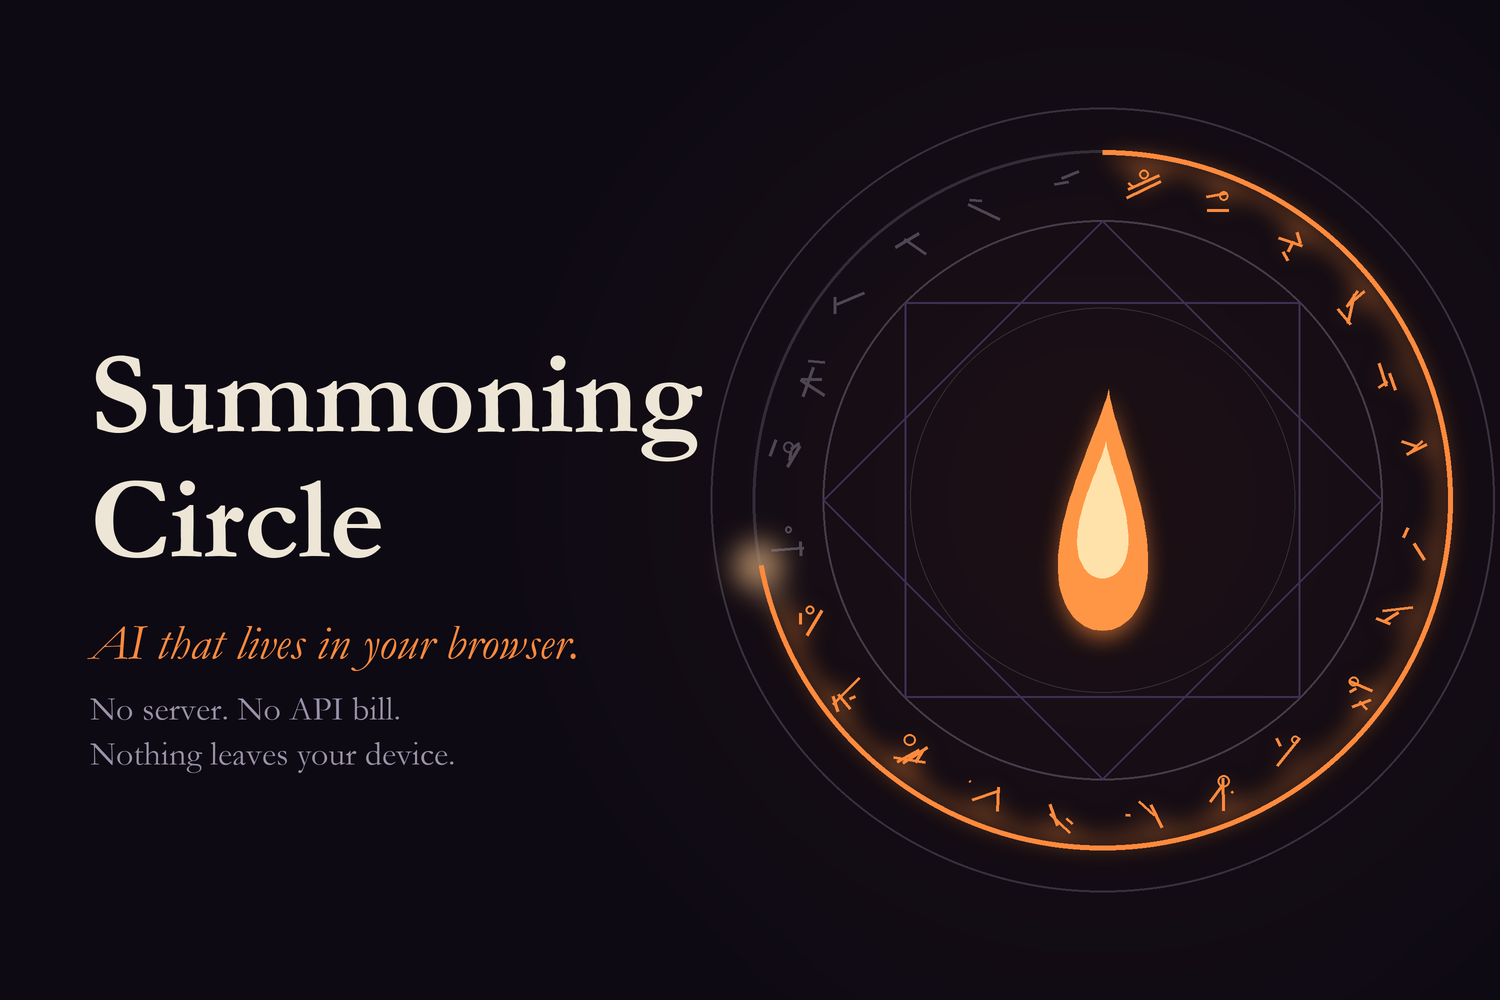
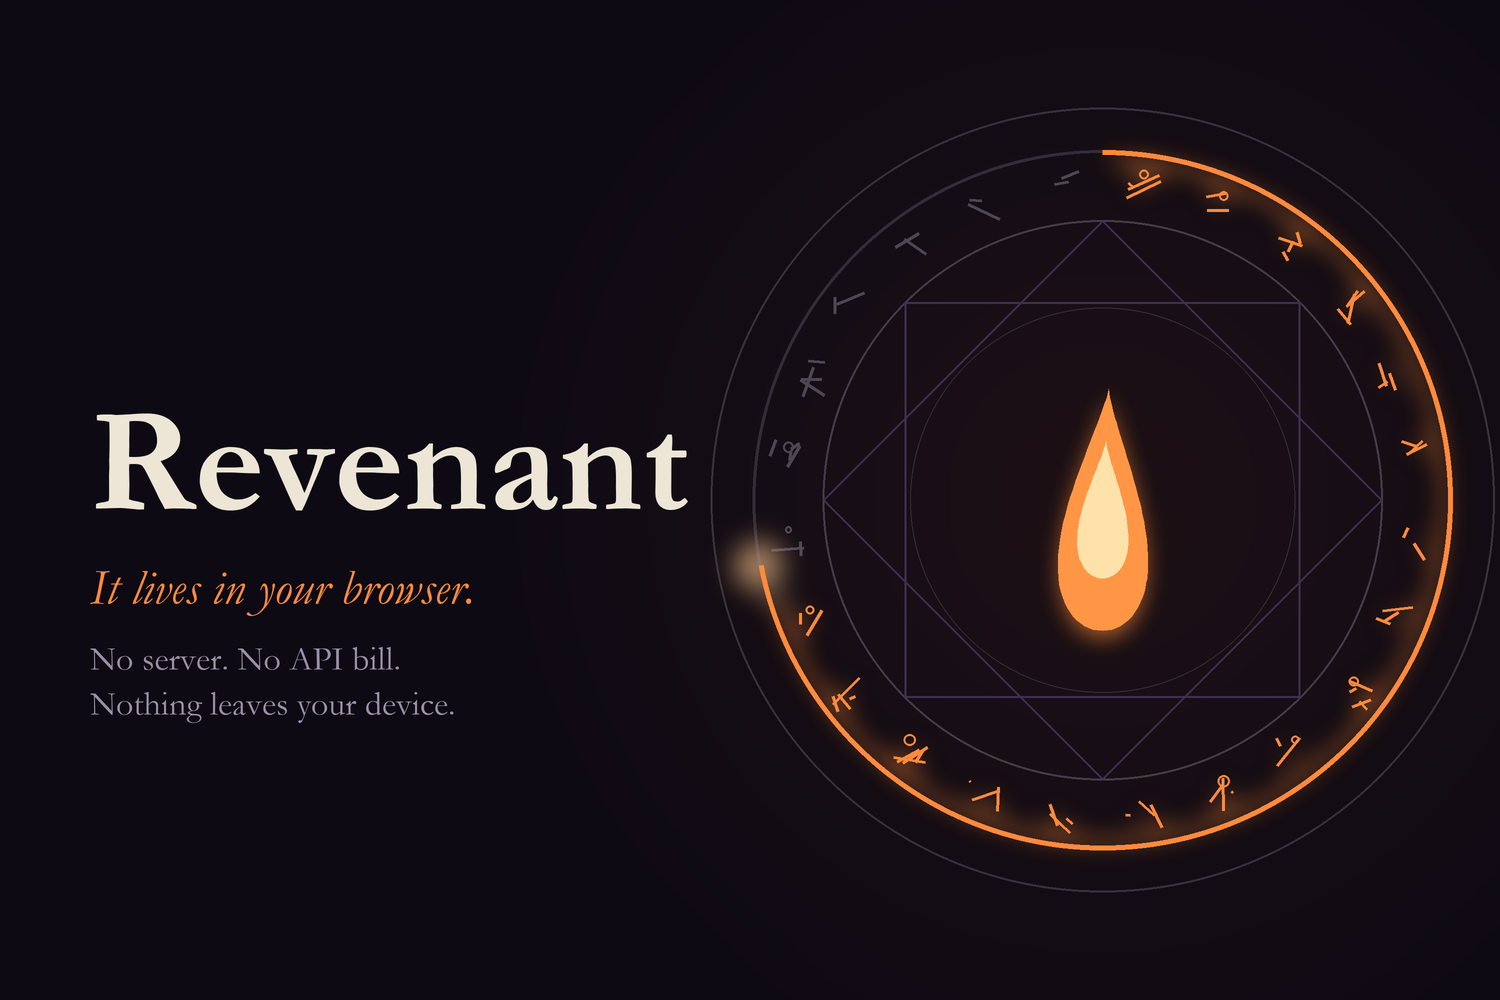
Rename the project to Revenant
Site, title screen, README, Kiro steering, package name and the Devpost
thumbnail; links point to the renamed GitHub repo.

Changed region(s): [[0.0613, 0.341, 0.46, 0.775]]

diff --git a/site/src/App.tsx b/site/src/App.tsx
@@ -5,7 +5,7 @@ import { Lab } from "./components/Lab";
 import { VitalSigns } from "./components/VitalSigns";
 import { isSoundEnabled, setSoundEnabled } from "./sound";
 
-const REPO = "https://github.com/Abbas-Rahman-c/summoning-circle";
+const REPO = "https://github.com/Abbas-Rahman-c/revenant";
 
 function SoundToggle() {
   const [on, setOn] = useState(isSoundEnabled);
@@ -79,7 +79,7 @@ export default function App() {
       <Gate />
       <header className="top">
         <a className="wordmark" href="#main">
-          Summoning Circle
+          Revenant
         </a>
         <nav className="top__nav" aria-label="Site">
           <SoundToggle />

diff --git a/site/index.html b/site/index.html
@@ -6,7 +6,7 @@
     <meta name="description" content="Summon AI that runs entirely in your browser. No server, no API bill, no data leaving your device." />
     <meta name="theme-color" content="#23272e" />
     <link rel="icon" href="/favicon.svg" type="image/svg+xml" />
-    <title>Summoning Circle</title>
+    <title>Revenant</title>
   </head>
   <body>
     <div id="root"></div>

diff --git a/site/src/components/Gate.tsx b/site/src/components/Gate.tsx
@@ -1,7 +1,7 @@
 import { useEffect, useRef, useState } from "react";
 import { setSoundEnabled } from "../sound";
 
-const TITLE = "Summoning Circle";
+const TITLE = "Revenant";
 
 /**
  * The title screen. Browsers only allow sound after a click, so entering is also how the lab's

diff --git a/site/src/styles.css b/site/src/styles.css
@@ -1,4 +1,4 @@
-/* Summoning Circle: a black-and-white film still where only electricity has color. */
+/* Revenant: a black-and-white film still where only electricity has color. */
 
 :root {
   --stone: #2b2a2e;

diff --git a/planning/make_thumbnail.py b/planning/make_thumbnail.py
@@ -1,4 +1,4 @@
-"""Renders the Devpost thumbnail (3:2) for Summoning Circle.
+"""Renders the Devpost thumbnail (3:2) for Revenant.
 
 Usage: python planning/make_thumbnail.py planning/thumbnail.png
 """
@@ -118,15 +118,14 @@ base.alpha_composite(lines)
 
 # type
 d = ImageDraw.Draw(base)
-title = ImageFont.truetype(FONTS + "GARABD.TTF", 118 * SS)
+title = ImageFont.truetype(FONTS + "GARABD.TTF", 150 * SS)
 tag = ImageFont.truetype(FONTS + "GARAIT.TTF", 50 * SS)
 small = ImageFont.truetype(FONTS + "GARA.TTF", 34 * SS)
 x0 = 90 * SS
-d.text((x0, 330 * SS), "Summoning", font=title, fill=BONE)
-d.text((x0, 455 * SS), "Circle", font=title, fill=BONE)
-d.text((x0, 615 * SS), "AI that lives in your browser.", font=tag, fill=EMBER)
-d.text((x0, 690 * SS), "No server. No API bill.", font=small, fill=DUST)
-d.text((x0, 735 * SS), "Nothing leaves your device.", font=small, fill=DUST)
+d.text((x0, 380 * SS), "Revenant", font=title, fill=BONE)
+d.text((x0, 560 * SS), "It lives in your browser.", font=tag, fill=EMBER)
+d.text((x0, 640 * SS), "No server. No API bill.", font=small, fill=DUST)
+d.text((x0, 685 * SS), "Nothing leaves your device.", font=small, fill=DUST)
 
 img = base.convert("RGB").resize((W // SS, H // SS), Image.LANCZOS)
 img.save(OUT, optimize=True)

diff --git a/.kiro/steering/product.md b/.kiro/steering/product.md
@@ -2,9 +2,9 @@
 inclusion: always
 ---
 
-# Product: Summoning Circle
+# Product: Revenant
 
-Summoning Circle lets developers build AI apps that run entirely in the browser: no server, no API bill, no user data leaving the device. It is a Kiroween 2026 entry in the **Frankenstein** category: five browser AI parts, each on a different web technology, stitched into one creature.
+Revenant lets developers build AI apps that run entirely in the browser: no server, no API bill, no user data leaving the device. It is a Kiroween 2026 entry in the **Frankenstein** category: five browser AI parts, each on a different web technology, stitched into one creature.
 
 ## The three layers
 

diff --git a/planning/design-plan.md b/planning/design-plan.md
@@ -31,7 +31,7 @@ Category: **Frankenstein**, "stitch together a chimera of technologies into one 
 ## Layout
 ```
 ┌──────────────────────────────────────────────────────────┐
-│ Summoning Circle                         sound  GitHub    │
+│ Revenant                         sound  GitHub    │
 │                                                           │
 │  Stitch a mind      ┌─coil┐   creature    ┌coil─┐  jars:  │
 │  into your browser. │     │   on slab     │     │  eyes   │

diff --git a/benchmark/README.md b/benchmark/README.md
@@ -1,5 +1,5 @@
 # Hallucination benchmark
 
-The same set of local-AI app prompts given to Kiro without and then with the Summoning Circle power. We record whether each result works on the first try.
+The same set of local-AI app prompts given to Kiro without and then with the Revenant power. We record whether each result works on the first try.
 
 Results are measured, never estimated.

diff --git a/.kiro/steering/structure.md b/.kiro/steering/structure.md
@@ -5,7 +5,7 @@ inclusion: always
 # Project structure
 
 ```
-summoning-circle/
+revenant/
 ├── .kiro/              specs, steering, hooks (always committed)
 ├── site/               the creature app (Vite + React): the lab, then talk mode
 ├── circle/             the runtime, published as the `circle` package

diff --git a/power/README.md b/power/README.md
@@ -1,3 +1,3 @@
 # Kiro power
 
-Packages the steering docs, hooks and circle-mcp so anyone can install Summoning Circle expertise into Kiro.
+Packages the steering docs, hooks and circle-mcp so anyone can install Revenant expertise into Kiro.

diff --git a/README.md b/README.md
@@ -1,4 +1,4 @@
-# Summoning Circle
+# Revenant
 
 > Stitch a mind into your browser.
 
